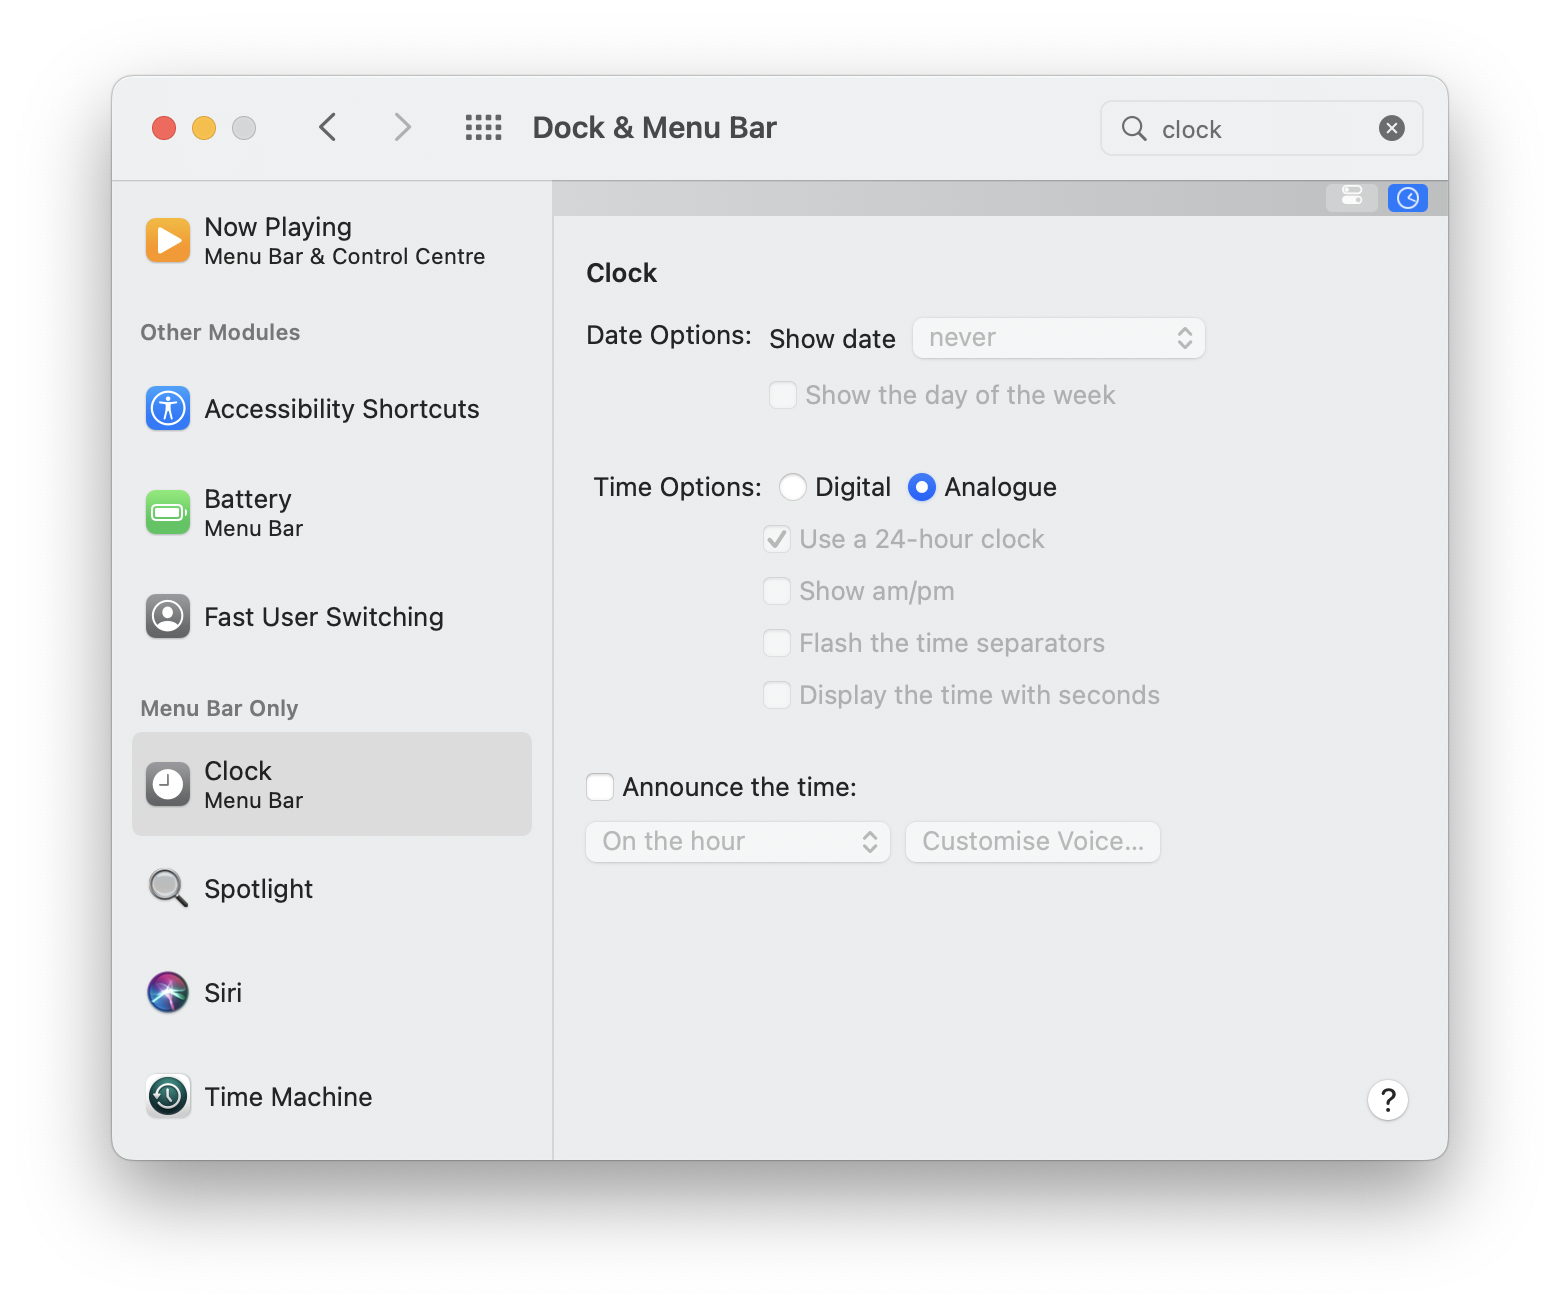
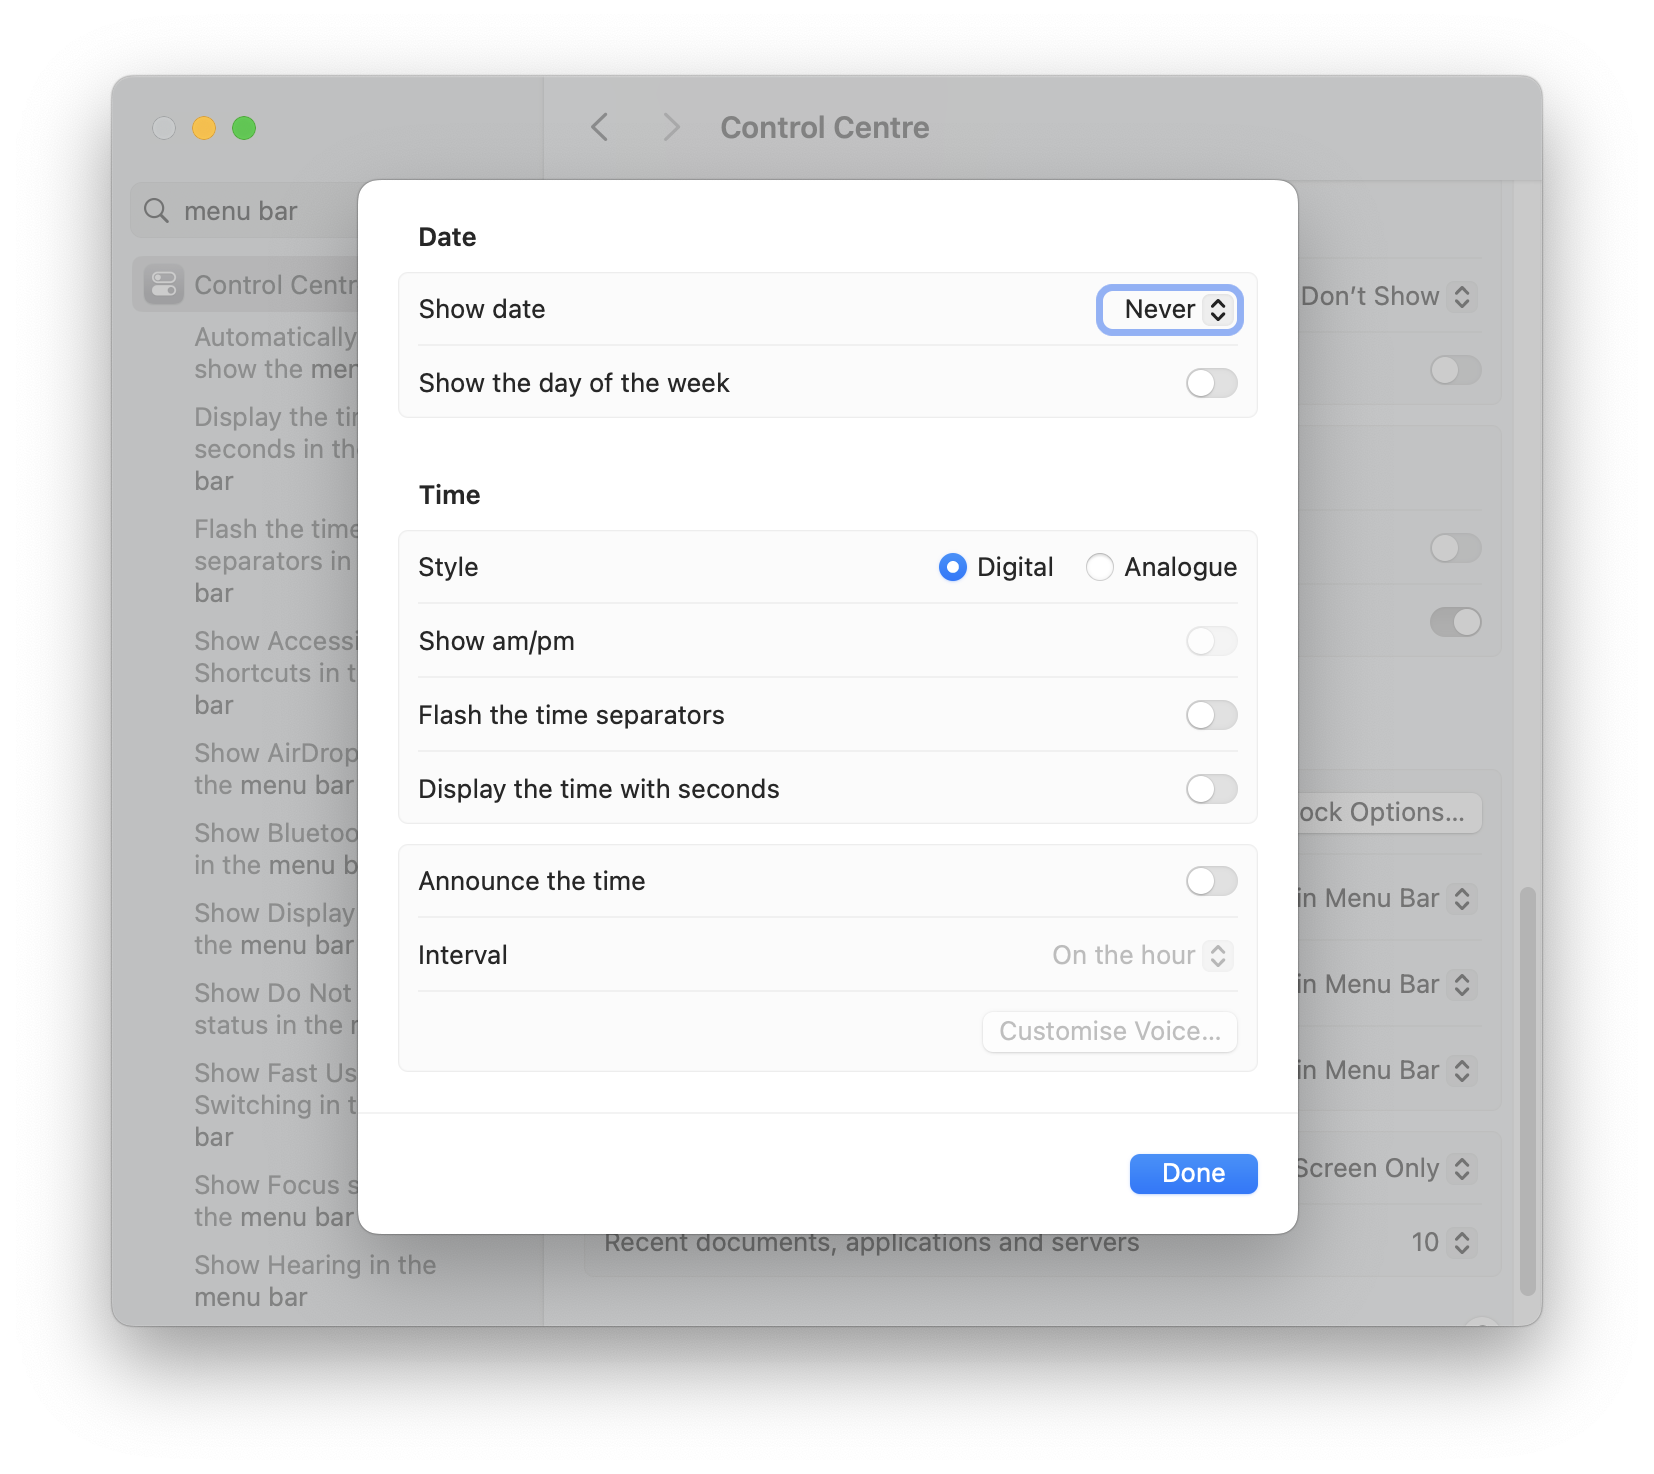
updated the setup post

diff --git a/content/posts/mac-software-2022.md b/content/posts/mac-software-2022.md
@@ -18,23 +18,25 @@ to feel at home:
 1. if this is a laptop, enable Touch ID
 1. if this is a personal Mac, sign in with Apple ID
 1. [Things](https://culturedcode.com/things/)
+    - configure desktop widgets
 1. [Spotify](https://www.spotify.com/us/download/mac/)
 1. [SteerMouse](https://plentycom.jp/en/steermouse/download.php)
     - configure [buttons](steermouse/buttons.png)
     - configure [sensitivity](steermouse/sensitivity.png)
     - enter license
 1. tweak macOS settings
-    - remove everything from the dock
+    - enable [night shift](macos/night-shift.png)
     - download [wallpaper](/static/assets/pixel-sorting/wallpaper/flipped.jpg) from the [pixel sorting](/posts/pixel-sorting) post
+    - remove everything from the dock
     - configure dock and menu bar
         - [dock](macos/dock.png)
         - [clock](macos/clock.png)
         - [spotlight](macos/spotlight.png)
-    - disable [autocorrection](macos/keyboard.png)
-    - configure [spaces](macos/spaces.png)
     - configure [hot corners](macos/hot-corners.png)
-    - add Stage Manager shortcut in keyboard shortcuts
+    - configure [spaces](macos/spaces.png)
     - disable "click wallpaper to reveal desktop"
+    - disable [autocorrection](macos/keyboard.png)
+    - add Stage Manager shortcut in keyboard shortcuts
     - configure Finder
     - configure Safari:
         - [general](safari/general.png)
@@ -60,6 +62,7 @@ to feel at home:
 1. [Hammerspoon](https://www.hammerspoon.org)
 1. [Visual Studio Code](https://code.visualstudio.com)
     - ⇧⌘P sync settings using GitHub
+1. [Bun](https://bun.sh)
 1. [VLC](https://www.videolan.org/vlc/)
 1. Xcode
     - [general](xcode/general.png)
